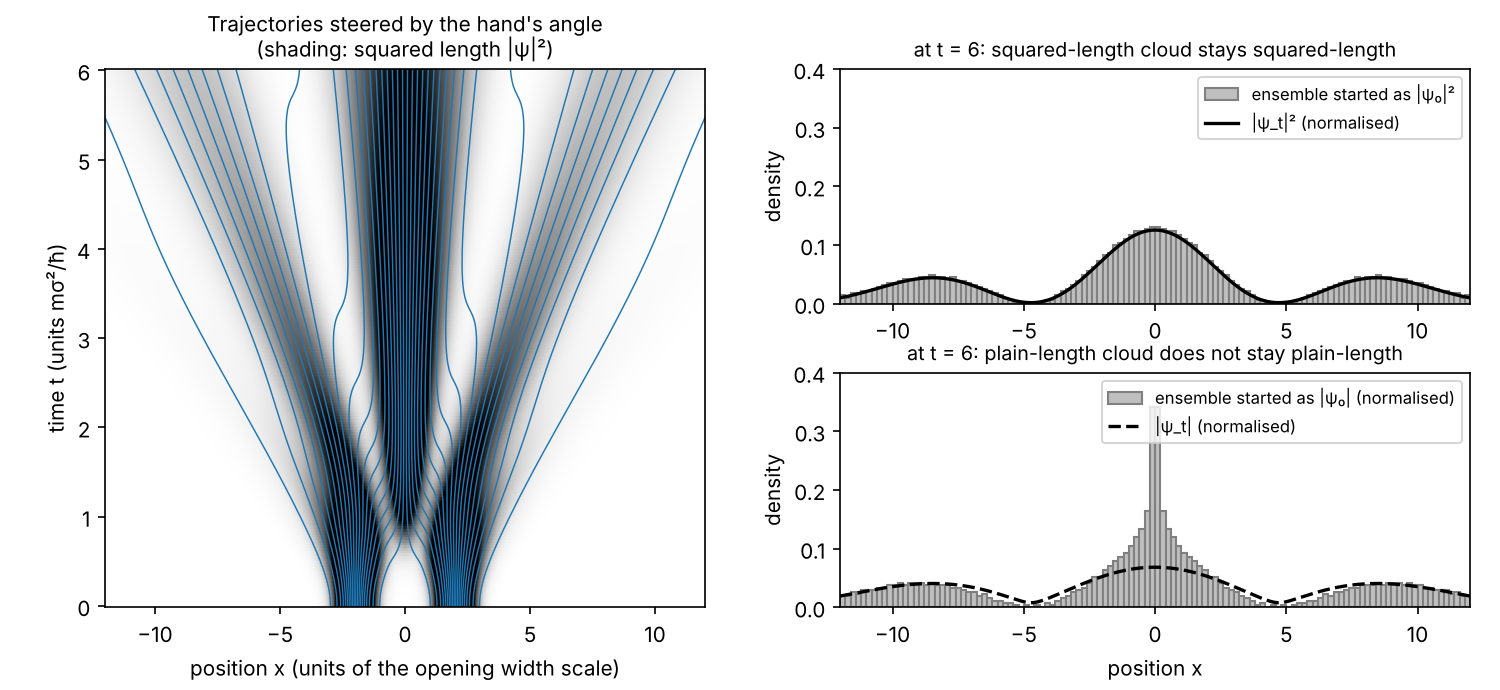
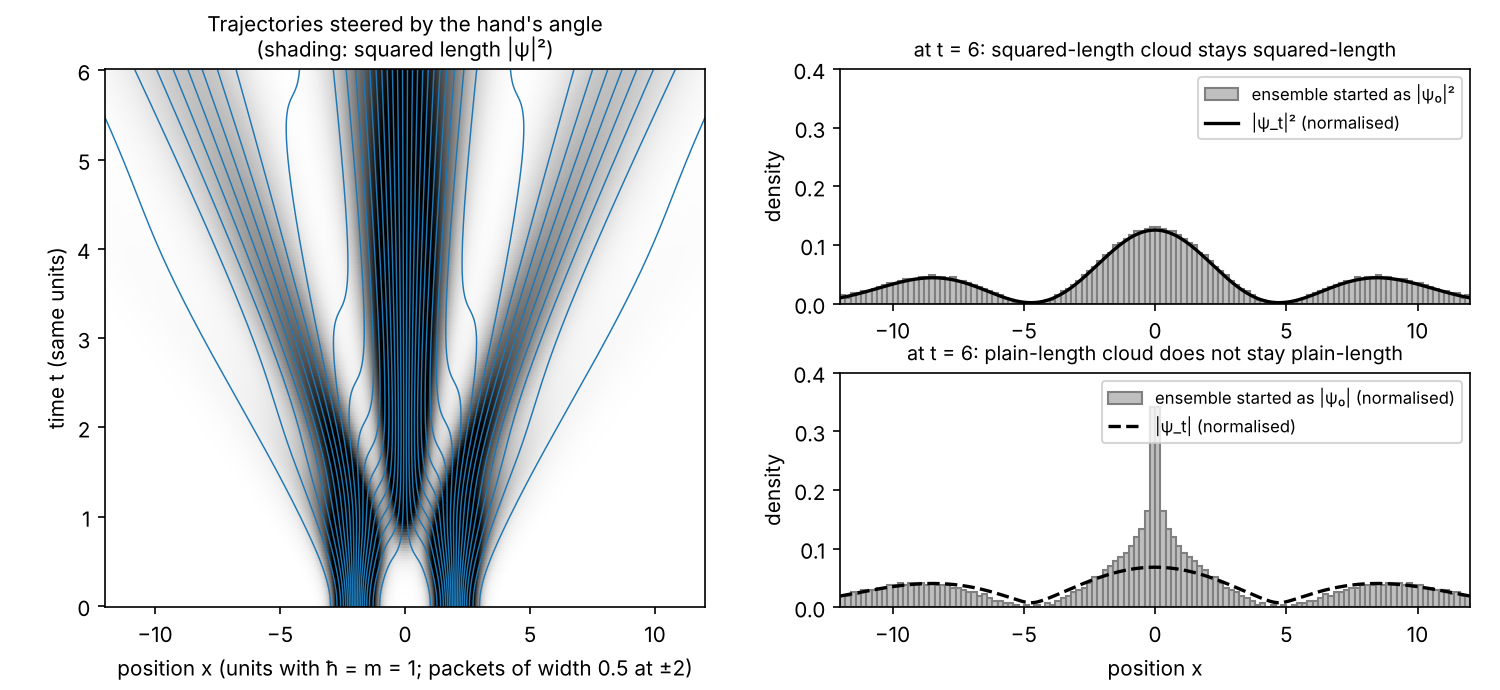
Tutor run (why complex and squared): verification and figures for A
Claude-Session: https://claude.ai/code/session_011EeWx5AEdppYiarvRbDBmd

Changed region(s): [[0.092, 0.9435, 0.46, 1.0], [0.0307, 0.3348, 0.0613, 0.6391]]

diff --git a/work/20261010-122105-why-complex-and-squared/checks/check_A_20.py b/work/20261010-122105-why-complex-and-squared/checks/check_A_20.py
@@ -1,0 +1,26 @@
+# Claim: "The sign change is forced by losslessness" (for the 50/50 splitter).
+# Test: a 50/50 splitter e^{i t_jk}/sqrt2 is unitary iff t11 + t22 - t12 - t21 = pi (mod 2pi).
+# The real convention realises this with one -1; the symmetric convention [[1,i],[i,1]]/sqrt2
+# realises it with no sign change at all. So a relative PHASE is forced, not specifically a sign.
+import numpy as np
+rng = np.random.default_rng(0)
+ok_cond = True
+for _ in range(2000):
+    t = rng.uniform(0, 2*np.pi, 4); M = np.exp(1j*t.reshape(2, 2))/np.sqrt(2)
+    unit = np.allclose(M.conj().T @ M, np.eye(2), atol=1e-9)
+    cond = abs(np.angle(np.exp(1j*(t[0]+t[3]-t[1]-t[2]))) - np.pi) < 1e-6 or abs(np.angle(np.exp(1j*(t[0]+t[3]-t[1]-t[2]))) + np.pi) < 1e-6
+    ok_cond &= (unit == cond)
+for t11 in np.linspace(0, 2*np.pi, 7):   # construct cases satisfying the condition: all unitary
+    t = [t11, 0.3, 1.1, np.pi + 0.3 + 1.1 - t11]; M = np.exp(1j*np.reshape(t, (2, 2)))/np.sqrt(2)
+    ok_cond &= np.allclose(M.conj().T @ M, np.eye(2))
+S = np.array([[1, 1j], [1j, 1]])/np.sqrt(2)
+sym_unitary = np.allclose(S.conj().T @ S, np.eye(2))
+no_minus = not np.any(np.isclose(S*np.sqrt(2), -1))
+H = np.array([[1, 1], [1, -1]])/np.sqrt(2)
+# same fringe with S, shifted by a constant
+phi = np.linspace(0, 2*np.pi, 9)
+P1S = [abs((S @ np.diag([np.exp(1j*p), 1]) @ S @ [1, 0])[0])**2 for p in phi]
+print('unitary <=> phase condition:', ok_cond, '| [[1,i],[i,1]]/rt2 unitary:', sym_unitary, ', contains no -1 entry:', no_minus)
+print('exit-1 fraction with symmetric splitters:', np.round(P1S, 3), '(= sin^2(phi/2): fringe shifted by pi)')
+print('FAIL: losslessness forces a relative phase (sum condition = pi), not specifically a sign change'
+      if ok_cond and sym_unitary and no_minus else 'PASS')

diff --git a/work/20261010-122105-why-complex-and-squared/checks/check_A_21.py b/work/20261010-122105-why-complex-and-squared/checks/check_A_21.py
@@ -1,0 +1,17 @@
+# Figure request a-pnorm-circles: arc on the real (x, y) plane from (1,0) to (0,1) labelled
+# "the interferometer's family U(phi), phi from 0 to pi". Test: is U(phi)(1,0) a real point
+# (cos t, sin t)? Or only its sizes (|u|, |v|)?
+import numpy as np
+H = np.array([[1, 1], [1, -1]])/np.sqrt(2)
+worst_mod = 0; on_real_arc = True
+for p in np.linspace(0.1, np.pi-0.1, 50):
+    u, v = H @ np.diag([np.exp(1j*p), 1]) @ H @ [1, 0]
+    worst_mod = max(worst_mod, abs(abs(u)-np.cos(p/2)), abs(abs(v)-np.sin(p/2)))
+    # is there a global phase making both components real?
+    r = np.array([u, v])*np.exp(-1j*np.angle(u))
+    on_real_arc &= abs(r[1].imag) < 1e-9
+print('sizes (|u|,|v|) = (cos phi/2, sin phi/2): max dev', worst_mod)
+print('U(phi)(1,0) equals a real point (cos t, sin t) up to overall phase:', on_real_arc,
+      '| e.g. phi=pi/2:', np.round(H @ np.diag([1j, 1]) @ H @ [1, 0], 3))
+print('FAIL (label as written): the real-plane arc is the rotation family R(phi/2); U(phi) traces it only in sizes'
+      if worst_mod < 1e-12 and not on_real_arc else 'PASS')

diff --git a/work/20261010-122105-why-complex-and-squared/checks/fig_a-how-they-relate.py b/work/20261010-122105-why-complex-and-squared/checks/fig_a-how-they-relate.py
@@ -20,7 +20,7 @@ psi = np.exp(-1j*2*np.pi*t)
 b.plot(t, psi.real, 'k-', lw=1.4, label='real part of the hand')
 b.plot(t, psi.imag, 'k--', lw=1.4, label='imaginary part')
 b.plot(t, abs(psi)**2, 'k-', lw=2.8, label='squared length |ψ|²')
-b.set_xlabel('time t (units of h/E)'); b.set_ylabel('value (dimensionless)'); b.set_ylim(-1.2, 1.75)
+b.set_xlabel('time t (units of h/E)'); b.set_ylabel('value (dimensionless)'); b.set_ylim(-1.2, 1.75); b.set_yticks([-1, -0.5, 0, 0.5, 1])
 b.set_title('Definite energy E: the hand turns at frequency E/h,\nthe chance never changes', fontsize=10)
 b.legend(fontsize=8.5, loc='upper center', ncol=3); b.grid(alpha=0.3)
 fig.tight_layout(); fig.savefig(out, dpi=150); print('saved', out)

diff --git a/work/20261010-122105-why-complex-and-squared/verify-A.md b/work/20261010-122105-why-complex-and-squared/verify-A.md
@@ -1,0 +1,55 @@
+VERDICT: revise
+
+| # | Claim (short quote) | Result | Evidence |
+|---|---|---|---|
+| 1 | "Multiplying by $e^{i\varphi}$ turns a hand by $\varphi$ without changing its length" (and the expanded algebra) | PASS | checks/check_A_01.py: sympy confirms the product expansion, the middle line of the squared-length expansion, the result $x^2+y^2$, and $z\bar z = x^2+y^2$ |
+| 2 | "Check that $H$ keeps the total chance"; "$H$ is a reflection"; sign-free matrix sends $(1,-1)/\sqrt2$ to $(0,0)$ | PASS | checks/check_A_02.py: $\lvert u+v\rvert^2+\lvert u-v\rvert^2 = 2(\lvert u\rvert^2+\lvert v\rvert^2)$ symbolically; $H^TH=I$, $\det H=-1$, $H^2=I$; $\tfrac1{\sqrt2}\begin{pmatrix}1&1\\1&1\end{pmatrix}(1,-1)/\sqrt2=(0,0)$ |
+| 3 | "The sign change is forced by losslessness" | FAIL | checks/check_A_20.py: a 50/50 splitter with entries $e^{i\theta_{jk}}/\sqrt2$ is unitary exactly when $\theta_{11}+\theta_{22}-\theta_{12}-\theta_{21}=\pi$. The symmetric splitter $\tfrac1{\sqrt2}\begin{pmatrix}1&i\\i&1\end{pmatrix}$ is lossless and has no $-1$ entry (it gives the same fringe, shifted by $\pi$). Correct statement: "Losslessness forces *some* relative phase between the four routes. In this real convention it shows up as one minus sign; other conventions use factors of $i$ instead. Without any such phase, $\frac{1}{\sqrt2}\begin{pmatrix}1&1\\1&1\end{pmatrix}$ would send $(1,-1)/\sqrt2$ to $(0,0)$." |
+| 4 | "$H(z,1)/\sqrt2 = \tfrac12(z+1, z-1)$ ... $P_1=\cos^2\frac\varphi2$, $P_2=\sin^2\frac\varphi2$, $P_1+P_2=1$"; $PH$ and $U=HPH$ | PASS | checks/check_A_03.py: matrix product, $\lvert z\pm1\rvert^2 = 2\pm2\cos\varphi$, the half-angle step, $PH$, $U$ (and $U$ unitary) all symbolic |
+| 5 | "repeating each time the extra optical path grows by one wavelength"; tick labels $\lambda/2$ per $\pi$; quarter wave turns the hand $90°$, half wave is $-1$ | PASS | checks/check_A_03.py: period $2\pi$ (not $\pi$); $2\pi d/\lambda$ maps $0,\lambda/2,\dots,2\lambda$ to $0,\pi,\dots,4\pi$; $P_1$ strictly decreasing from 1 to 0 on $[0,\pi]$ |
+| 6 | Table rows at 0°, 60°, 90°, 120°, 180° | PASS | checks/check_A_04.py: every entry within 6e-4 (3-decimal rounding); partial sums 0.5625, 0.1875, 0.0625 exact |
+| 7 | (d) "counts half the photons, and tilting the plate does not change that"; arm 2 blocked: "one quarter" at each exit; state $(z/2, z/2)$ | PASS | checks/check_A_05.py: at 97 values of $\varphi$ in $[0,4\pi]$, arm-1 chance is 1/2 and blocked-arm exits are 1/4 each (also when arm 1 is blocked) |
+| 8 | Rules-out table: balls "50/50 at every tilt"; chances only "$\frac14+\frac14=\frac12$ at every tilt, yet at $\varphi=\pi$ it gets nothing" | PASS | checks/check_A_05.py: 0.5 vs quantum $P_1(\pi)=0$ |
+| 9 | "$r^2=1$ and $r=+1$ or $-1$ ... with $+1$ every photon leaves by exit 1; with $-1$ ... exit 2" | PASS | checks/check_A_06.py: solutions $\pm1$ give exit fractions (1,0) and (0,1) |
+| 10 | Model 2: "$\lvert A_1\rvert=\lvert A_2\rvert=\tfrac12$"; totals 1, 0.707 (squared 0.50), 0 | PASS | checks/check_A_07.py |
+| 11 | "$J(x,y)=(-y,x)$ ... $J^2(x,y)=(-x,-y)$"; rewriting with $4\times4$ real matrices and $J$ gives the same theory for one system | PASS | checks/check_A_08.py: realification of $U(\varphi)$ and 200 random unitaries is orthogonal and commutes with $J$; chances agree to 7e-16 |
+| 12 | "spin turned through 360° reverses the sign ... only 720° restores it" | PASS | checks/check_A_09.py: $e^{-i\theta\sigma/2}$ is $-I$ at $2\pi$ and $+I$ at $4\pi$ |
+| 13 | "complex quantum mechanics allows up to $6\sqrt2 \approx 8.49$" | PASS | checks/check_A_10.py: explicit entanglement-swapping network (two $\Phi^+$ sources, Bell measurement, Alice Z/X/Y, Charlie the six combinations) scores 8.485281 = $6\sqrt2$; each of the three CHSH operators has maximum $2\sqrt2$, so it cannot go higher |
+| 14 | "real-amplitude theories cannot exceed about 7.66"; 2022 scores "above the real bound by many standard deviations" | UNVERIFIABLE | checks/check_A_10.py, check_A_19.py: the bound needs the NPA semidefinite hierarchy and the experimental numbers are data. Consistent with the literature value 7.6605 |
+| 15 | Banach–Lamperti: for $p\ge1$, $p\ne2$ only relabellings keep the $p$-total, so there is no gradual lossless mixer; for $p=2$ there is | PASS | checks/check_A_11.py: over all complex $2\times2$ maps forced to move a fraction 0.5 (or 0.1) of chance from exit 1 to exit 2, the smallest worst-case $p$-total error is 0.35/0.15 ($p=1$), 0.20/0.10 ($p=1.5$), 0.47/0.34 ($p=3$), 0.83/0.70 ($p=4$), 0.42/0.11 ($p=0.5$), and $4\times10^{-16}$ for $p=2$. Relabellings keep every $p$-total |
+| 16 | "$p$-total $2^{p-2}$. That equals 1 only when $p=2$"; table rows $p=1..4$; $p=1$ sign-free matrix sends $(\tfrac12,-\tfrac12)$ to $(0,0)$ | PASS | checks/check_A_12.py: symbolic in $p$; table entries 0.500/0.707/0.794/0.841, outputs 0.5/1/1.26/1.414, totals 0.5/1/2/4 |
+| 17 | "$2\cdot(1/\sqrt2)^p = 2^{1-p/2}$ (1.41, 1, 0.71, 0.5)" | PASS | checks/check_A_12.py |
+| 18 | Wiggle rule: $f(\cos\theta)+f(\sin\theta)=1$; $f\ge0$ for $\lvert\varepsilon\rvert<1$ (bracket $\ge -1$); three outcomes total $1-\tfrac{2\varepsilon}{9}$; $\varepsilon=0.5$ gives 0.889, "eleven per cent" | PASS | checks/check_A_13.py: symbolic identities. The bracket ranges over $[-1, 1/8]$ on $[0,1]$; $f_3 = \tfrac13-\tfrac{2\varepsilon}{27}$; 0.8889, 11.1% |
+| 19 | Renamed amplitudes: square-root lengths with a 4th-power rule give the same counts, "but renamed hands no longer add tip to tail" | PASS | checks/check_A_14.py: $(\sqrt r)^4=r^2$; two aligned hands of 1/2: old rule gives 1, renamed hands added then raised to the 4th give 4 |
+| 20 | Gleason: with $\ge3$ directions, squared shadows (and weighted averages) are the consistent rule, "not the plain size, not a wiggle" | PASS | checks/check_A_15.py: over 1000 random bases in dimension 3 and 4, the square and density-matrix rules sum to 1 within $10^{-15}$; plain size is off by up to 1.0 and the wiggle ($\varepsilon=0.3$) by up to 0.11. A pure state gives its own direction with certainty. (Gleason's uniqueness itself is cited, not recomputed) |
+| 21 | Pilot wave: "a cloud spread as the squared length stays so ...; a cloud spread as the plain length does not in general"; real wave function means the particle is at rest | PASS | checks/check_A_16.py: two spreading Gaussians, exact Schrödinger solution. Along 33 trajectories the carried fraction changes by $8\times10^{-7}$ for $\lvert\psi\rvert^2$ vs $0.097$ for normalised $\lvert\psi\rvert$; $v=\mathrm{Im}(\psi'/\psi)=0$ for real $\psi$ |
+| 22 | "a state of definite energy $E$ carries a frequency $E/h$ while nothing observable ... changes" | PASS | checks/check_A_17.py |
+| 23 | "tilting the plate lengthens the path inside it, so the arm's optical path ... grows smoothly with the tilt" | PASS | checks/check_A_18.py: $d(\sqrt{n^2-\sin^2\theta}-\cos\theta)$ rises strictly from $d(n-1)$ for $n=1.33, 1.5, 1.9$ |
+| 24 | "about one fifth of the lowest rate any classical wave could give"; "visibility of 98%" | UNVERIFIABLE | checks/check_A_19.py: experimental values. Consistent with the reported $\alpha\approx0.18$ and $V>98\%$. The text correctly frames 100%→0% as the ideal case ($V=0.98$ leaves a 1% floor, check_A_18.py) |
+| 25 | Figure request a-pnorm-circles: arc from (1,0) to (0,1) on the real $x$–$y$ plane labelled "the interferometer's family U(φ), φ from 0 to π" | FAIL | checks/check_A_21.py: $U(\varphi)(1,0) = e^{i\varphi/2}(\cos\frac\varphi2,\ i\sin\frac\varphi2)$. At $\varphi=\pi/2$ it is $(0.5+0.5i,\ -0.5+0.5i)$, not a real point; only its *sizes* $(\lvert u\rvert,\lvert v\rvert)=(\cos\frac\varphi2,\sin\frac\varphi2)$ lie on the arc. Correct label: "rotation by 0° to 90° (a lossless gradual mixer for p = 2); the interferometer's U(φ), φ from 0 to π, moves the amplitude sizes along this same arc." Drawn that way |
+| 26 | Figure caption: rotated points "leave the diamond and the rounded square except at the two ends"; 45° $p$-totals 1.41 / 1.00 / 0.50 | PASS | checks/check_A_11.py: at 15°…75° the $p=1$ total is above 1 and the $p=4$ total is below 1; both equal 1 at 0° and 90° |
+
+Pass count: 22 PASS, 2 FAIL, 2 UNVERIFIABLE (22/26).
+
+## Figures
+Requested in the text:
+- a-interferometer-counts: figures/a-interferometer-counts.png (checks/fig_a-interferometer-counts.py). Exit fractions are computed from $HP(\varphi)H$. The three clock-hand diagrams sit in a strip above the plot rather than inside it, because at upper right they would cover the exit-1 curve near $4\pi$.
+- a-pnorm-circles: figures/a-pnorm-circles.png (checks/fig_a-pnorm-circles.py). Drawn with the corrected arc label from row 25; the axes are labelled "amplitude at exit 1/2 (real)".
+
+Added, one per section without a figure (proposed true captions):
+- a-setup ("The set-up"): figures/a-setup.png. "Mach–Zehnder interferometer: heralded single photons enter splitter BS 1, the tiltable plate turns arm 1's hand by φ, and BS 2 recombines the arms. Amplitudes at each stage are computed from H and P(φ); example φ = 60°: arm chances 0.50/0.50, exits 0.75/0.25. Ideal lossless optics, equal arms."
+- a-rules-out ("What this rules out"): figures/a-rules-out.png. "(b) Exit-1 fraction against plate phase. Tiny balls and chances-only both predict 1/2 at every tilt. One real number per arm reaches only the squares at φ = 0, π, 2π. A complex pair per arm gives the smooth cos²(φ/2), as does a classical wave's energy fraction. (a) Two-detector coincidences after one splitter, relative to the product of single rates: any classical intensity gives at least 1 (steady 1.00, fluctuating 2.01), while one ideal photon gives 0."
+- a-model-1 ("Model 1"): figures/a-model-1.png. "As φ goes round, the exit-1 amplitude (z+1)/2 runs round a circle of radius 1/2 centred at +1/2, and the exit-2 amplitude (z−1)/2 round one centred at −1/2. Each chance is the squared distance from the origin, and at every φ the two add to 1. Points are the table's angles."
+- a-model-2 ("Model 2"): figures/a-model-2.png. "Tip-to-tail sum at exit 1 of the arm-2 route hand (fixed, length 1/2) and the arm-1 route hand (length 1/2, turned by φ). The total's length 1, 0.866, 0.707, 0.5, 0 squares to 1, 0.75, 0.5, 0.25, 0."
+- a-complex-meaning ("What 'complex' does and does not mean"): figures/a-complex-meaning.png. "Left: a quarter-wavelength delay acts on the pair (x, y) as J(x, y) = (−y, x); two of them give (−x, −y), so J² = −1. Right: in the two-source, three-party network, complex quantum mechanics reaches 6√2 ≈ 8.49 (computed). Real amplitudes combined with the product rule are bounded near 7.66 (Renou et al. 2021, literature value, not recomputed)."
+- a-interpretations ("Where the interpretations stand"): figures/a-interpretations.png. "Pilot-wave steering for two spreading wave packets (ħ = m = 1). Left: trajectories, whose velocity is the gradient of the hand's angle, drawn over |ψ|². Right: after t = 6, an ensemble that started distributed as |ψ|² still matches |ψ|² (total-variation distance 0.02, sampling noise). One that started as normalised |ψ| does not match normalised |ψ| (distance 0.18; note the pile-up at x = 0)."
+- a-how-they-relate ("How they relate"): figures/a-how-they-relate.png. "Left: one photon through the interferometer. The p-total |amp₁|^p + |amp₂|^p of its two exit amplitudes stays at 1 for every φ only when p = 2; p = 1 rises to 1.41 and p = 3 and p = 4 fall to 0.71 and 0.5 at φ = π/2. Right: for a state of definite energy E, the hand's real and imaginary parts oscillate at frequency E/h while |ψ|² stays at 1."
+
+No figure for the opening paragraph, which has no heading and is illustrated by a-interferometer-counts. No figure for "Check yourself" either: a picture would give away the answer (1/4; check_A_05.py).
+
+## Notes
+- Model 3 starts from "some power $p>0$", but the cited theorem covers only $1\le p<\infty$. The conclusion also holds for $0<p<1$: check_A_11 finds no gradual mixer at $p=0.5$, and isometries of $\ell^p$ for $0<p<1$ are also known to be generalized permutations. Either say "$p\ge1$" or add one line that $0<p<1$ behaves the same way.
+- Row 15 checks Banach–Lamperti numerically at $2\times2$ only (all complex maps, worst case over all unit vectors on a grid); the general theorem is cited, not proven here.
+- Row 3: the fix is one sentence. The counts and the rest of the derivation are unaffected, because the text already says any lossless choice gives the same counts up to a fringe shift.
+- Neutron 4π remark: as written it is true (a sign alone is available to real numbers). The actual experiment, though, varies the field continuously and sees intensity oscillate with period 720°. If the explainer wants, that continuous fringe is itself an example of a continuously turning hand.
+- The a-rules-out coincidence panel uses a simple classical-intensity detection model. The 1986 measured value is left out of the figure because it could not be recomputed.
